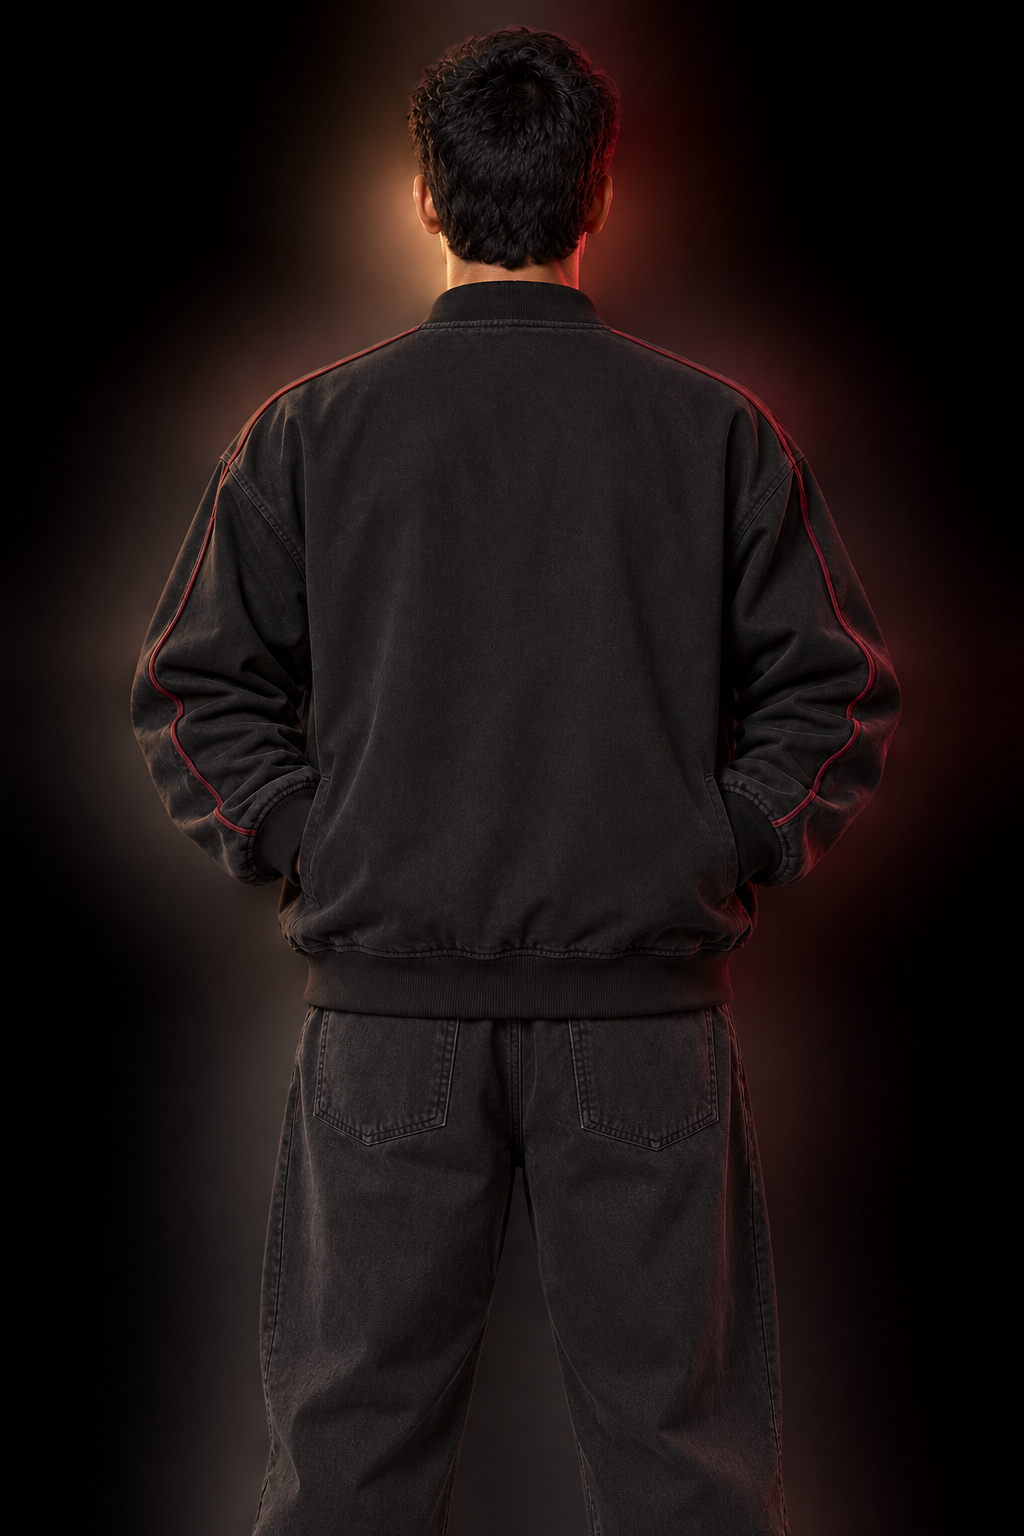
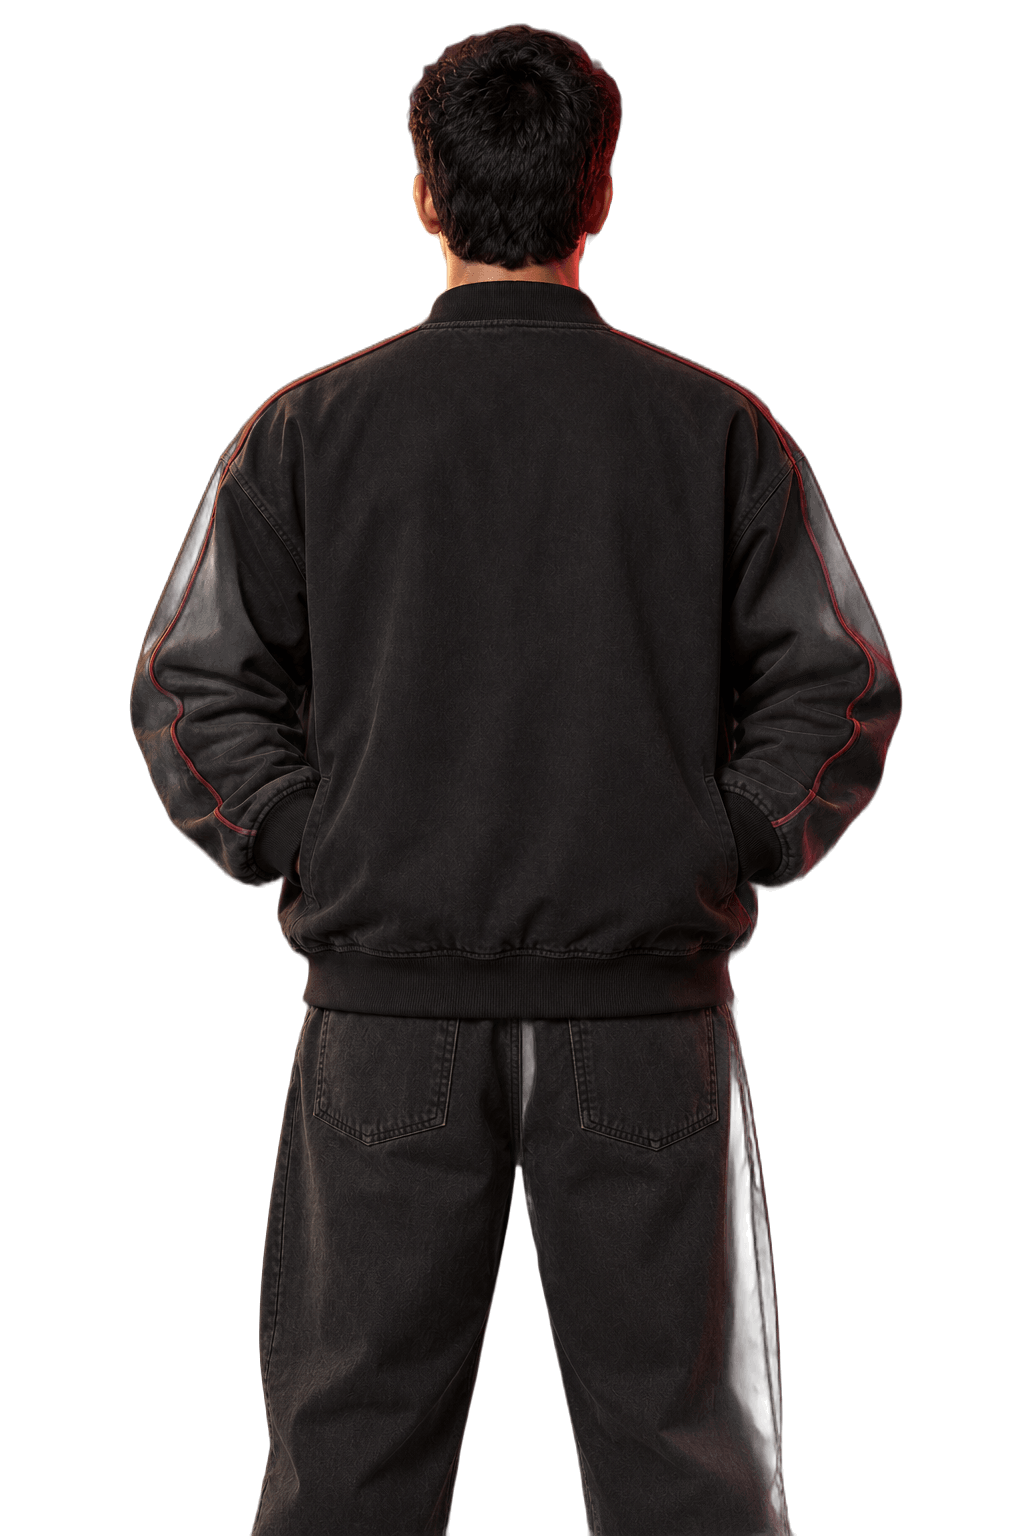
Make jacket hero side and back portraits transparent cutouts like the front.

diff --git a/docs/JACKET_HERO.md b/docs/JACKET_HERO.md
@@ -2,6 +2,9 @@
 
 ## Current status
 
+Front, side, and back portraits are RGBA cutouts (transparent backgrounds) so the scroll turn composites cleanly on the hero paper.
+
+
 The homepage has a responsive campaign hero with an original generated front portrait. The scroll-controlled two-pose turn and lettering zoom are implemented but intentionally **disabled** until the matching rear portrait is available. This is not a completed animation deliverable yet.
 
 No video was generated: ChatCut returned FEATURE_NOT_INCLUDED. The user then selected AI stills with a stylized front-to-back transition. The built-in image tool generated the front portrait, but the rear-view edit returned usage_limit_reached. No paid fallback was started and no unrelated retail photograph was substituted.
